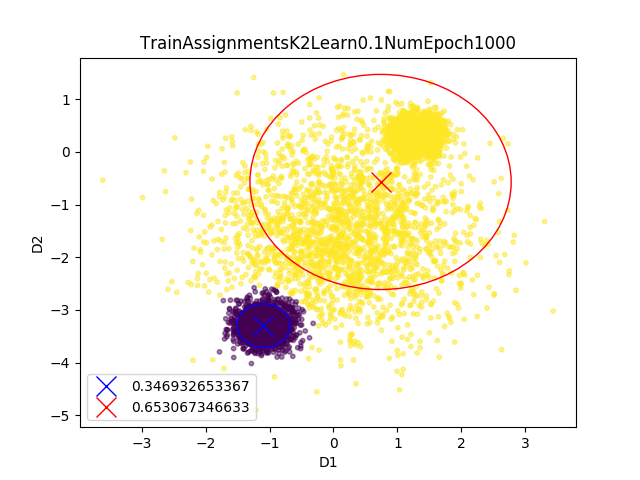
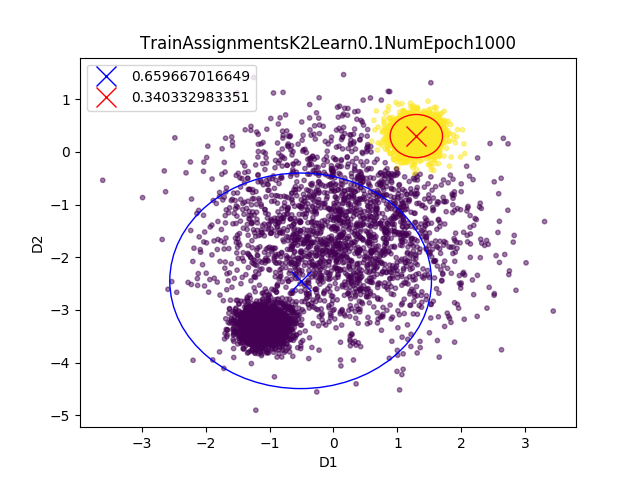
Updated pictures to account for prior

diff --git a/library/tensorflow/ECE521/A3/mixtureOfGaussians.py b/library/tensorflow/ECE521/A3/mixtureOfGaussians.py
@@ -180,8 +180,8 @@ class MixtureOfGaussians(object):
         probabilityZGivenX = tf.exp(lnProbabilityZGivenX)
         check = tf.reduce_sum(probabilityZGivenX, 1) # Check probabilities sum to 1
         # Assign classes based on maximum posterior probability for each data point
-        #minAssignments = tf.argmax(lnProbabilityZGivenX, 1)
-        minAssignments = tf.argmax(lnProbabilityXGivenZ, 1)
+        minAssignments = tf.argmax(lnProbabilityXGivenZ, 1) # No prior contribution during assignment
+        minAssignments = tf.argmax(lnProbabilityZGivenX, 1) # Prior contributes during assignment
 
         # ----------------------------------------------------------------------------------
         #logLikelihoodDataGivenCluster = self.LnProbabilityZGivenX(trainData, clusterMean, clusterStdDeviation, clusterPrior)
